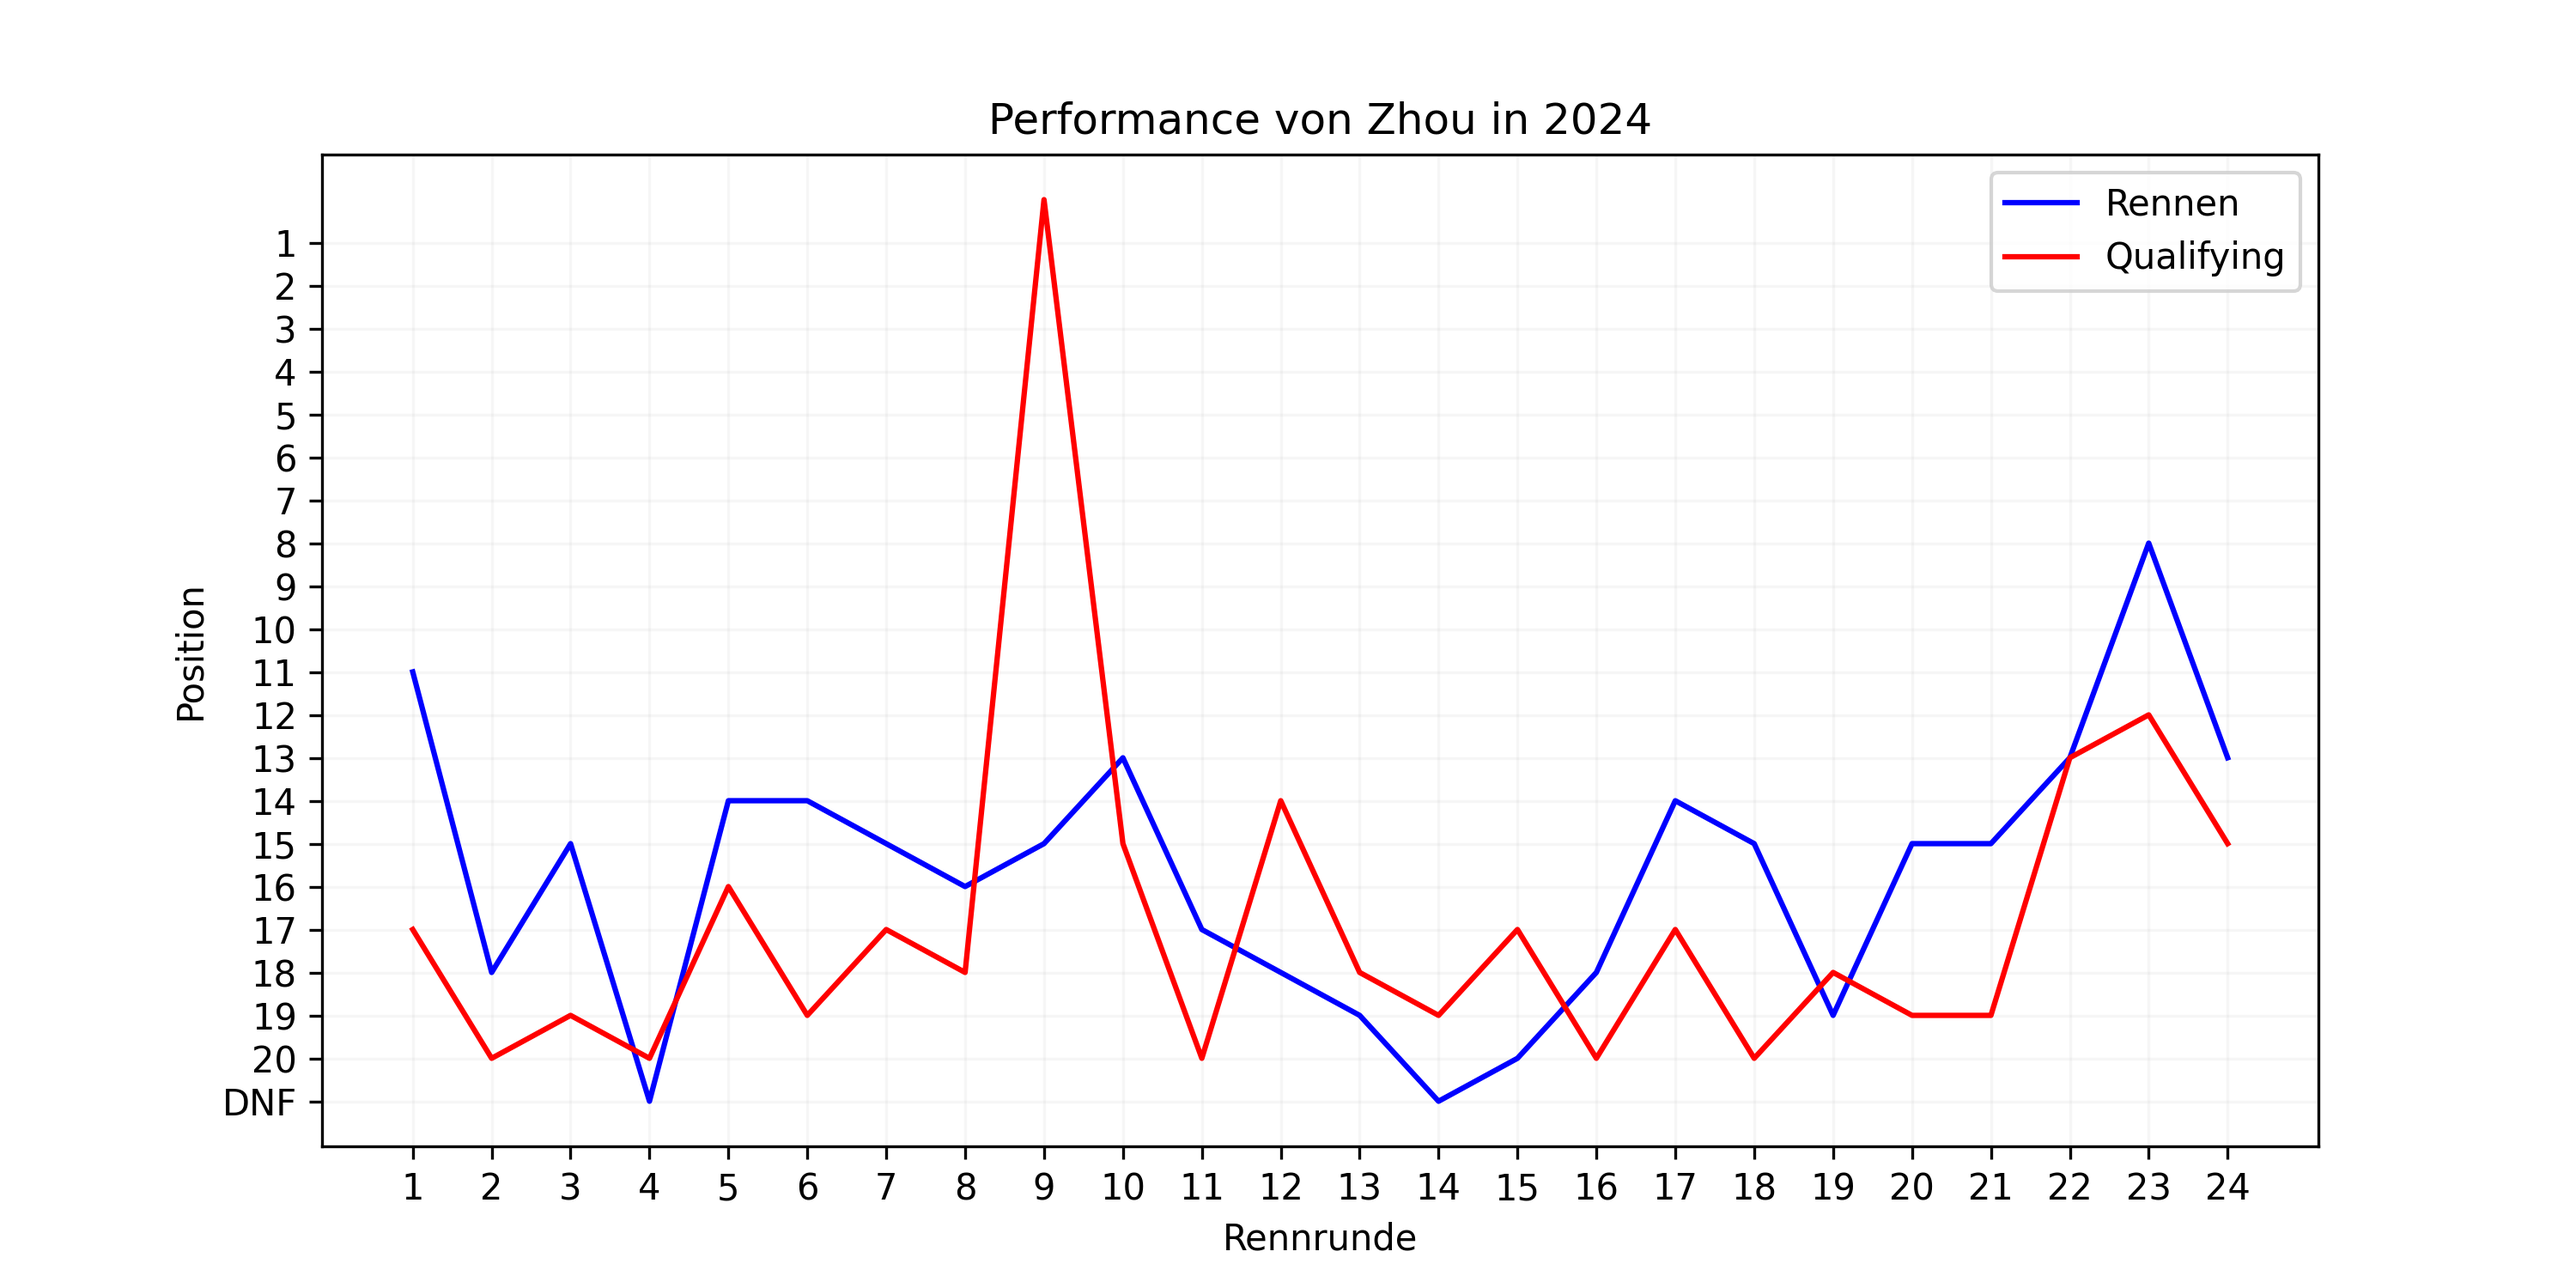
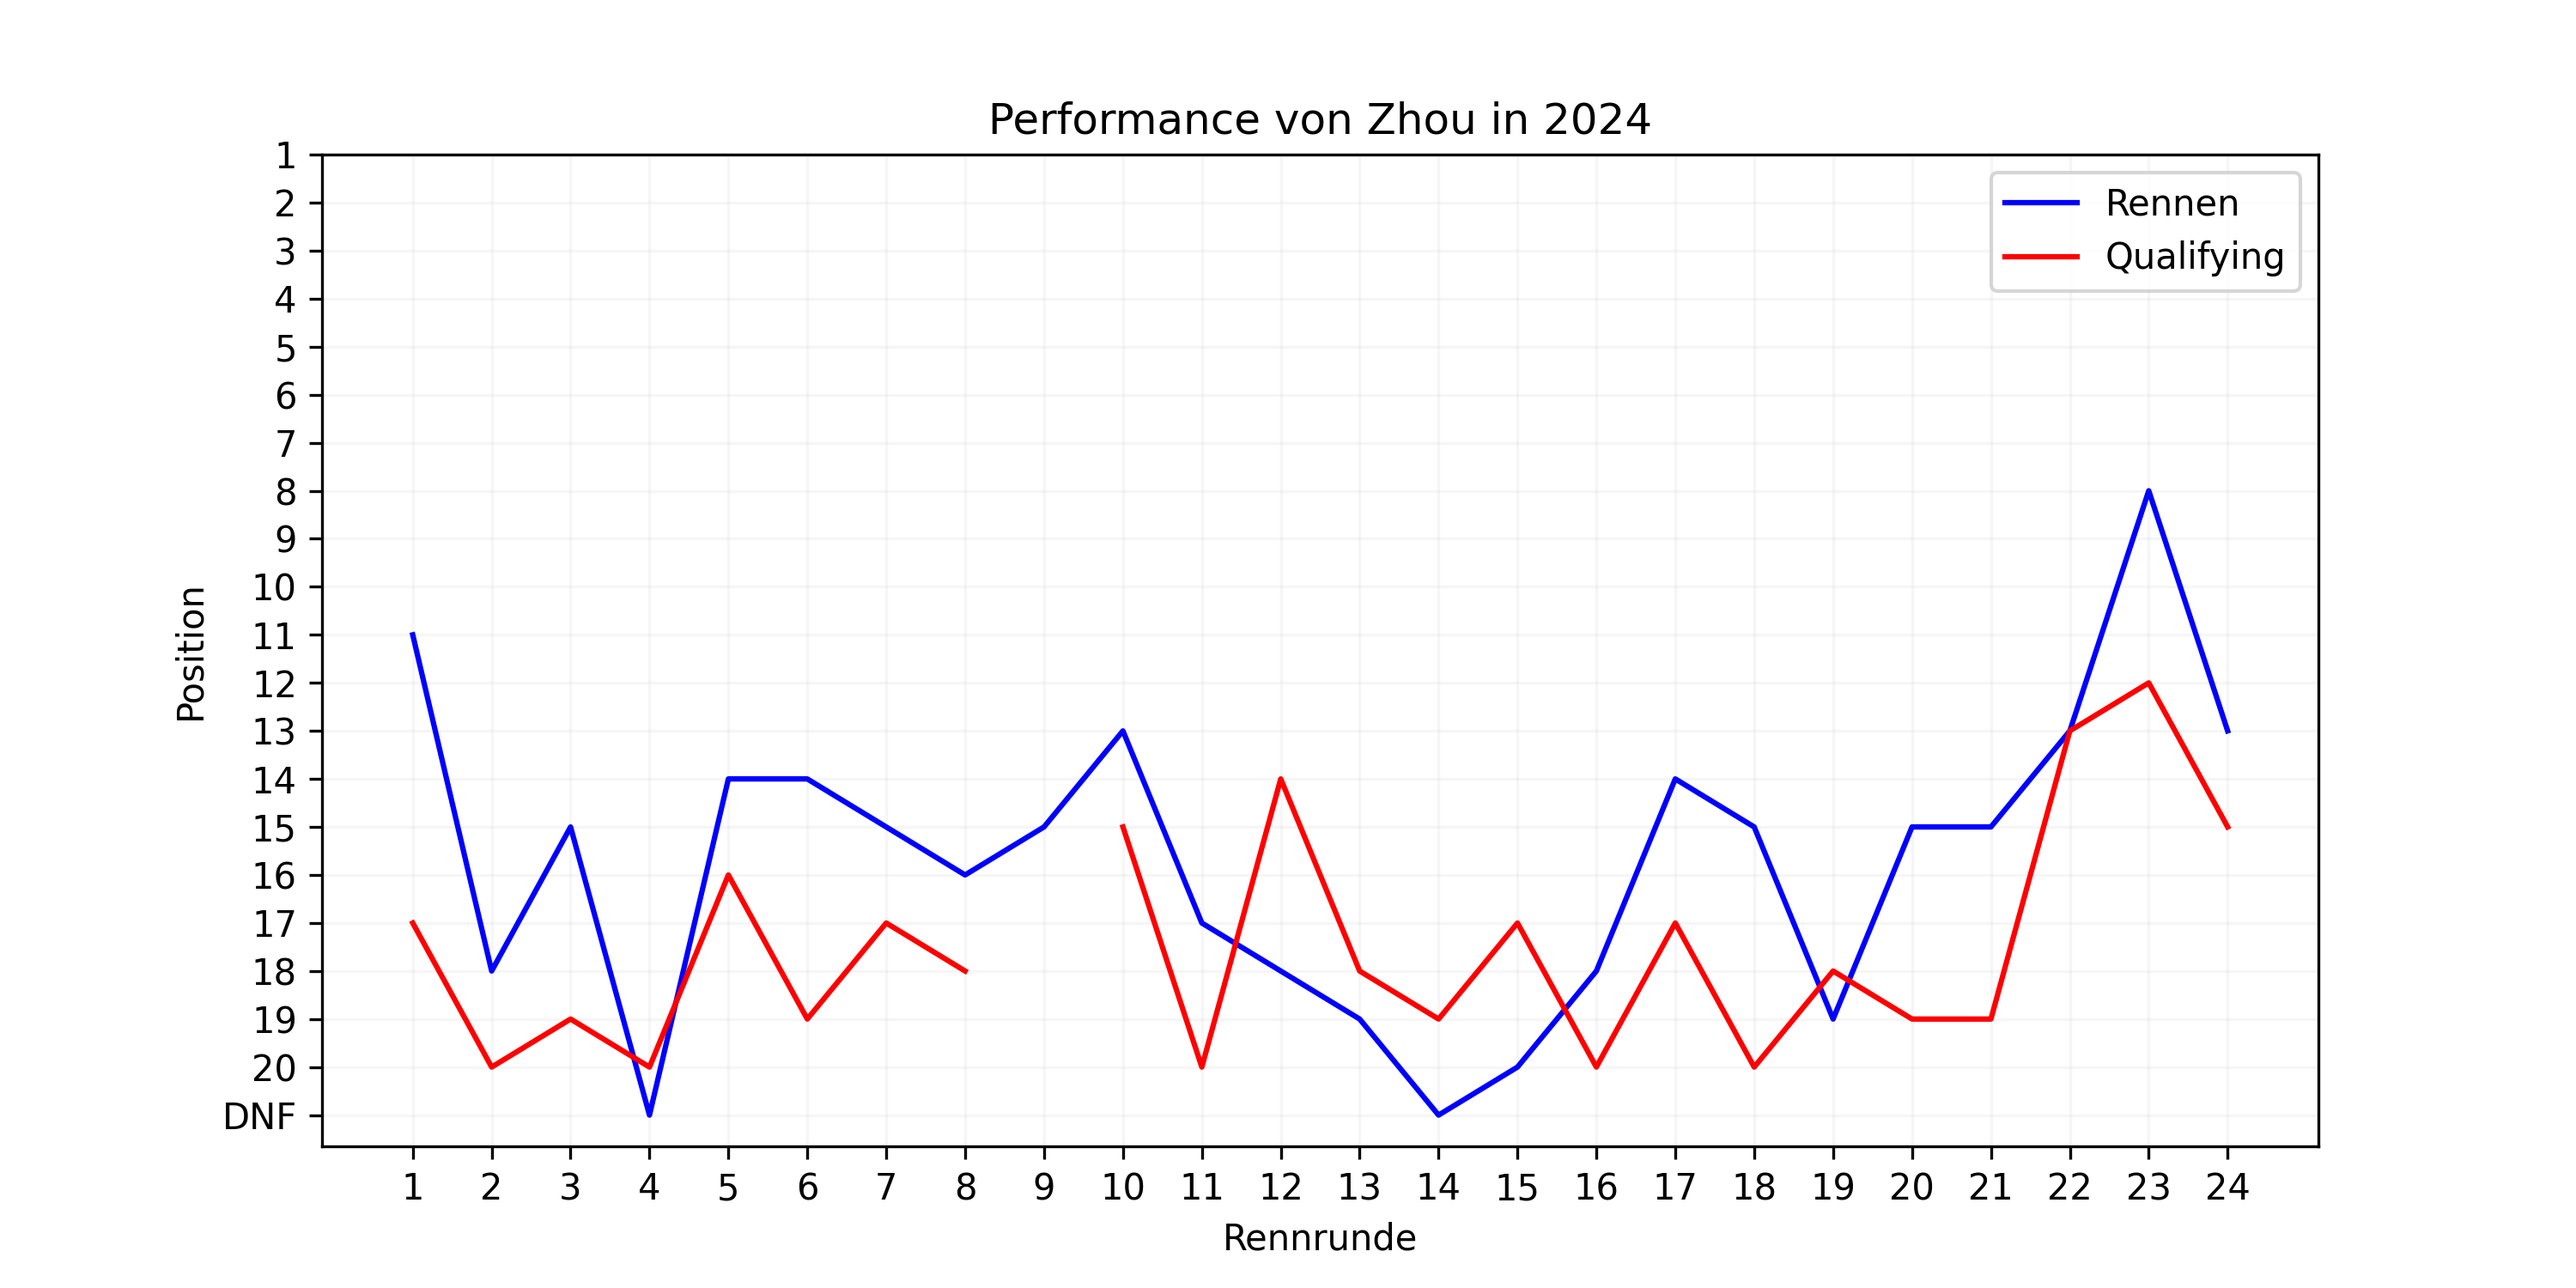
updated

diff --git a/matplotlib_graphic_generator.py b/matplotlib_graphic_generator.py
@@ -32,7 +32,11 @@ def plot_driver_results(year, driver_id):
         for result in race_data.get("qualifying", []):
             if result["driver"] == driver_id:
                 index = int(round_num) - 1  # Index anpassen
-                qualifying_positions[index] = int(result["grid"])
+                grid_position = int(result["grid"])
+                
+                # Filter: Falls Gridposition 0 ist, ignoriere das Qualifying-Ergebnis
+                if grid_position > 0:
+                    qualifying_positions[index] = grid_position
                 break
     
     if all(np.isnan(positions)) and all(np.isnan(qualifying_positions)):
@@ -56,7 +60,7 @@ def plot_driver_results(year, driver_id):
     plt.savefig(save_path, format="png", dpi=300)
     print(f"Grafik gespeichert unter {save_path}")
     
-    # plt.show()
+    plt.show()
 
 def plot_driver_championship(year):
     file_path = f"cache/matplotlib/driver_standings_{year}.json"
@@ -111,6 +115,6 @@ def plot_driver_championship(year):
 
 if __name__ == "__main__":
     year = 2024
-    driver_id = "max_verstappen"
+    driver_id = "zhou"
     plot_driver_results(year, driver_id)
-    plot_driver_championship(year)
+    # plot_driver_championship(year)
